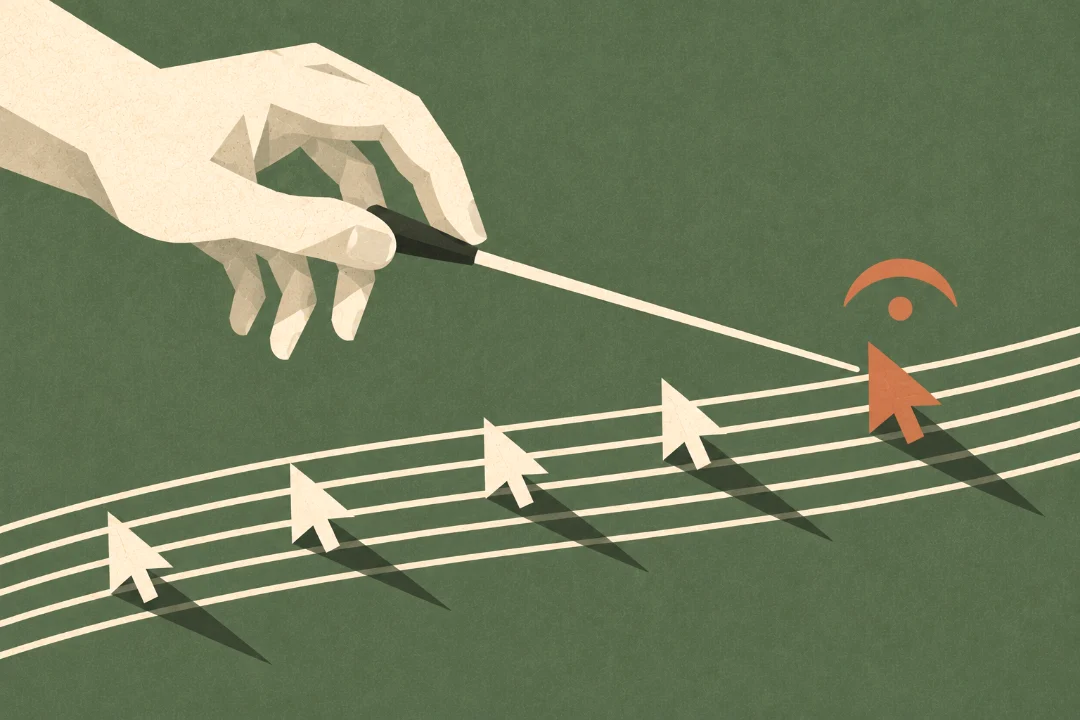
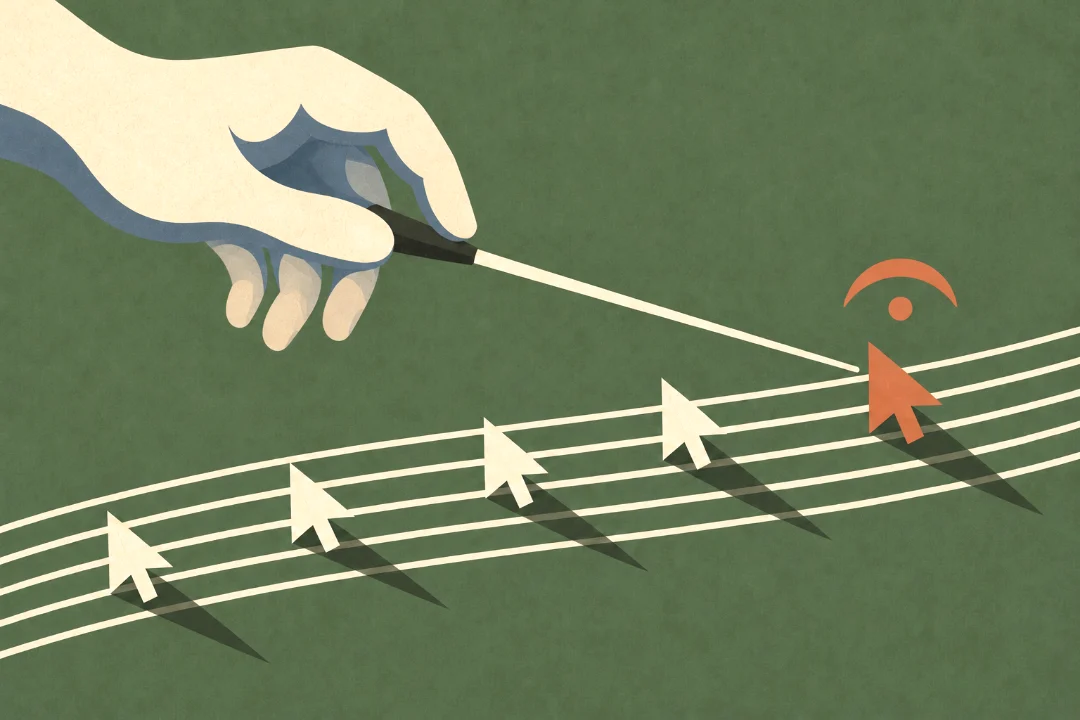
Agent Review card: the conductor's hand redrawn in the How I Work cards' gouache hand
Asset swap. Same 1080x720 slot, cache-buster to v=2 on the homepage and
the lab index. resting.mjs 1495 measurements and states.mjs 546 across
417 rules on index.html, the same before and after.

diff --git a/index.html b/index.html
@@ -1195,7 +1195,7 @@
                  alt="". thumb-loop.css, "The drawn card", has it. -->
             <a class="case-thumb case-thumb--still" href="lab/agent-review.html" aria-label="Read the Agent Review case study: everyone talks about orchestration, and here&rsquo;s one you can press">
               <div class="explore-still explore-still--drawn"><!-- card:agent-review:graphic -->
-                <img src="img/lab/agent-review-card.webp?v=1" width="1080" height="720" alt="" loading="lazy" decoding="async" />
+                <img src="img/lab/agent-review-card.webp?v=2" width="1080" height="720" alt="" loading="lazy" decoding="async" />
               <!-- /card -->
               </div>
             </a>

diff --git a/lab/index.html b/lab/index.html
@@ -356,7 +356,7 @@
           <li class="writing-item">
             <a class="writing-link" href="agent-review.html">
               <div class="explore-still explore-still--drawn writing-card" aria-hidden="true"><!-- card:agent-review:graphic -->
-                <img src="../img/lab/agent-review-card.webp?v=1" width="1080" height="720" alt="" loading="lazy" decoding="async" />
+                <img src="../img/lab/agent-review-card.webp?v=2" width="1080" height="720" alt="" loading="lazy" decoding="async" />
               <!-- /card -->
               </div>
               <div class="writing-text">
